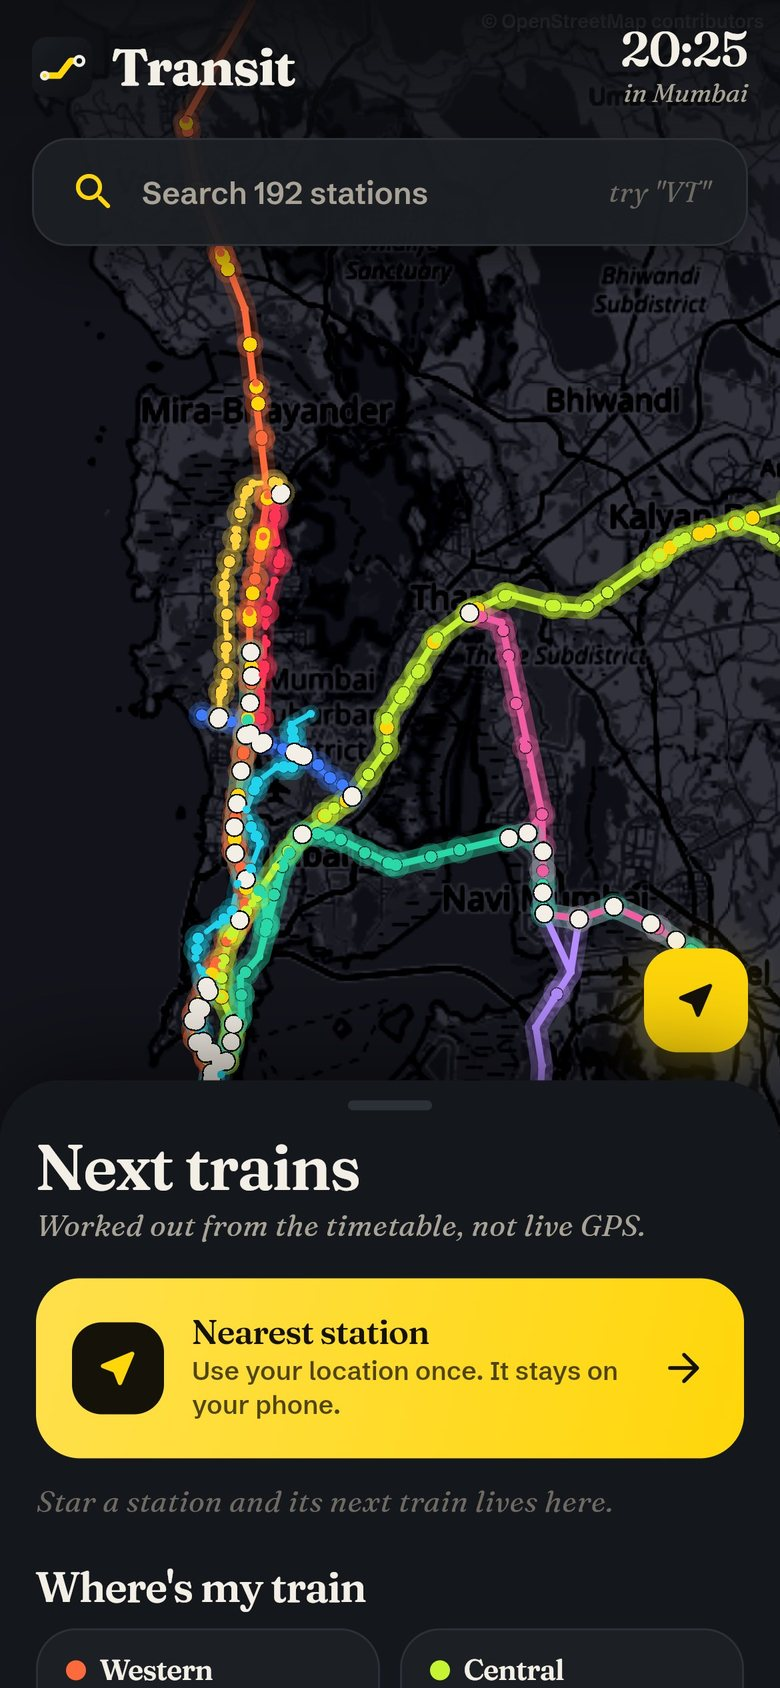
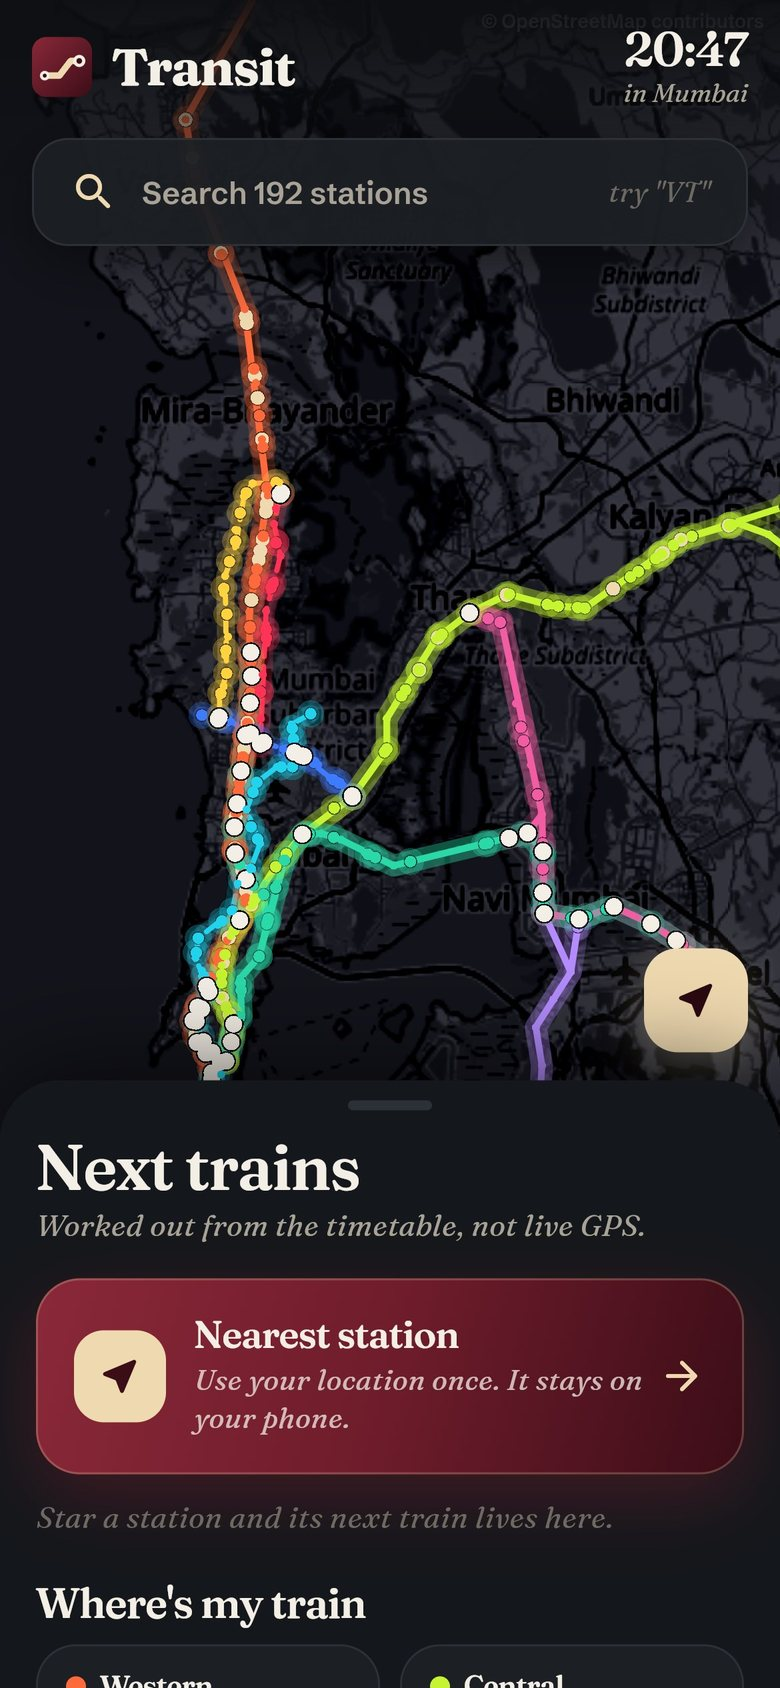
readme: maroon and cream, new splash, fresh screenshots

diff --git a/README.md b/README.md
@@ -13,15 +13,15 @@
 ![License](https://img.shields.io/badge/license-MIT-green)
 
 <p align="center">
-  <img src="docs/screenshots/splash.jpg" width="200" alt="Splash: a yellow line draws itself, a signal runs down it and the wordmark rises">
+  <img src="docs/screenshots/splash.jpg" width="200" alt="Splash: on local-train maroon the network draws itself as a line diagram, trains run down each line, and the wordmark rises">
+  <img src="docs/screenshots/doors.jpg" width="200" alt="The splash slides open from the centre like a local's doors, onto the map">
   <img src="docs/screenshots/home.jpg" width="200" alt="Home: the night map of Mumbai with every line glowing and trains moving, and a sheet with next trains">
-  <img src="docs/screenshots/station.jpg" width="200" alt="Station: Dadar's board with a big countdown, an approach ring, platforms and fast and AC tags">
-  <img src="docs/screenshots/line.jpg" width="200" alt="Where's my train: the Western line as a diagram, with trains running both ways between stations">
+  <img src="docs/screenshots/station.jpg" width="200" alt="Station: Andheri's board with a big countdown, an approach ring, platforms and fast and slow tags">
 </p>
 <p align="center">
-  <img src="docs/screenshots/search.jpg" width="200" alt="Search: station names, codes and aliases like VT">
+  <img src="docs/screenshots/line.jpg" width="200" alt="Where's my train: the Western line as a diagram, with trains running both ways between stations">
   <img src="docs/screenshots/train.jpg" width="200" alt="Train: every stop and time on the run, with the train's place on it now">
-  <img src="docs/screenshots/nearest.jpg" width="200" alt="Nearest station from your location, with a walking time and its next train">
+  <img src="docs/screenshots/nearest.jpg" width="200" alt="Nearest station from your location: the map flies to Andheri and opens its board">
   <img src="docs/screenshots/time.jpg" width="200" alt="Time controls: jump to the morning rush or run the schedule at 60 times speed">
 </p>
 
@@ -33,13 +33,13 @@ Motion was designed before the screens, with one set of tokens (`lib/brand/token
 
 | Moment | What happens |
 |---|---|
-| **Load** | On a faint grid of diagonal tracks, the yellow line of the mark draws itself and bends at 45°, the end station pops in, and a white signal runs down the line like a train on a diagram. The wordmark rises letter by letter. Then the end station opens into a circle that reveals the map. The web loading screen and the Android launch screen use the same ink colour, so nothing flashes. Tap to skip. |
+| **Load** | On local-train maroon, the network draws itself as a line diagram, each line in its own colour with a stagger, and a cream train runs down every line. The mark draws in the middle, the wordmark rises letter by letter, and the lines step back so it reads. Then the screen slides open from the centre like a local's doors, a cream edge on each, onto the map. The web loading screen, the Android launch screen and the app icon share the maroon, so nothing flashes. Tap to skip to the doors. |
 | **The map wakes up** | As the splash opens, the camera flies in from the whole region to the city, every line draws itself out from its terminus, the stations appear and the trains start to move. The sheet and top bar rise into place. |
-| **Fly to a station** | Pick a station on the map or in search and the camera flies like a plane, rising for long hops and settling just above the sheet, where a yellow pulse marks it. The sheet cross-fades from the overview to the station's board. |
-| **Countdown** | The next train's minutes and seconds roll like a platform indicator, an approach ring closes as it gets nearer, and the card turns yellow inside two minutes. "Now" pulses when the train is due. |
-| **Trains on the map** | Every running train is a solid dot in its line's colour (fast trains in yellow), redrawn about 15 times a second, easing out of a station, cruising, and braking into the next. |
-| **Where's my train** | The line tile grows into a full-bleed header in the line's colour. Both tracks draw down the screen, station names stagger in (interchanges as white bars across both tracks), and the trains glide along: down trains on one track, up trains on the other, fast trains in yellow, AC rakes with a blue outline, ladies specials with a pink light. Tap one to open its run. "Watch it on the line" from a train scrolls to it and rings it. |
-| **Time travel** | Tap the clock in the corner to jump to the morning or evening rush, or run the schedule at 10× or 60×, so you can watch the 9 am crush on the Western line at any hour. The italic line under the clock turns yellow and says what you are looking at. |
+| **Fly to a station** | Pick a station on the map or in search and the camera flies like a plane, rising for long hops and settling just above the sheet, where a cream pulse marks it. The sheet cross-fades from the overview to the station's board. |
+| **Countdown** | The next train's minutes and seconds roll like a platform indicator, an approach ring closes as it gets nearer, and the card's edge lights up in cream inside two minutes. "Now" pulses when the train is due. |
+| **Trains on the map** | Every running train is a solid dot in its line's colour (fast trains in cream), redrawn about 15 times a second, easing out of a station, cruising, and braking into the next. |
+| **Where's my train** | The line tile grows into a full-bleed header in the line's colour. Both tracks draw down the screen, station names stagger in (interchanges as white bars across both tracks), and the trains glide along: down trains on one track, up trains on the other, fast trains in cream, AC rakes with a blue outline, ladies specials with a pink light. Tap one to open its run. "Watch it on the line" from a train scrolls to it and rings it. |
+| **Time travel** | Tap the clock in the corner to jump to the morning or evening rush, or run the schedule at 10× or 60×, so you can watch the 9 am crush on the Western line at any hour. The italic line under the clock turns cream and says what you are looking at. |
 
 ## Features
 
@@ -47,7 +47,7 @@ Motion was designed before the screens, with one set of tokens (`lib/brand/token
 - **Timetables bundled**: 3,312 suburban trains with every stop, time and most platforms, about 580 KB of JSON. Nothing is fetched except map tiles, so the boards work in a tunnel.
 - **Next trains**: a departure board for any station with live countdowns, filters by line and fast only, platform numbers, and trains that end at the station left out (you cannot board them). Late at night it looks across midnight, both ways.
 - **Fast, slow, AC, ladies**: from the timetable. AC and ladies rakes that run as ordinary trains at the weekend are shown as ordinary on those days.
-- **Station search**: by name, by part of a word, by code (`ADH`) or by alias (`VT`, `Bombay Central`). Every word must match, and the matching part lights up.
+- **Station search**: by name, by part of a word, by code (`ADH`) or by alias (`VT`, `Bombay Central`). Every word must match, and the matching part lights up in cream.
 - **Favourites**: star a station and its next train lives on the home sheet. Saved on the device.
 - **Nearest station**: one location fix, on request. The app finds the closest stations with a walking time and flies to the nearest. The position is never stored or sent anywhere.
 - **Interchanges**: metro stations within a short walk of a suburban station (Andheri, Ghatkopar, Churchgate, CSMT, Marol Naka, ...) link to each other.
@@ -77,7 +77,7 @@ A train's timetable gives a departure time at each stop. Between two stops the a
 
 ## Design
 
-Transit is a night app: a neutral ink field (`#0d0f12`) with cream type (`#f4efe6`) and the yellow painted along every platform edge (`#ffd60a`) as its one accent. Headlines and the big countdown figures are set in **Fraunces**, interface text in **Schibsted Grotesk**, and the quiet lines in between (notes, section intros, "in Mumbai" under the clock) in italic Fraunces rather than small grey capitals. There are no status pills: the time sits in the corner as type, with a colon that blinks with the seconds. The lines bring the rest of the colour, each in its own: Western orange, Central lime, Harbour mint, Trans-Harbour pink, Uran lilac, and the metro lines in their official blue, yellow, aqua and red. The mark is a fragment of a line map: a yellow line leaves a station, bends at 45° and arrives at a ring.
+Transit borrows the old Mumbai local's livery: a deep maroon (`#6e1c2b`, deepening to `#3b0d17`) as the brand field for the splash, icon and hero cards, and the cream band (`#efd9b0`) as the one accent, over a neutral graphite night (`#0d0f12`) for the map. Headlines and the big countdown figures are set in **Fraunces**, interface text in **Schibsted Grotesk**, and the quiet lines in between (notes, section intros, "in Mumbai" under the clock) in italic Fraunces rather than small grey capitals. There are no status pills: the time sits in the corner as type, with a colon that blinks with the seconds. The lines bring the rest of the colour, each in its own: Western orange, Central lime, Harbour mint, Trans-Harbour pink, Uran lilac, and the metro lines in their official blue, yellow, aqua and red. The mark is a fragment of a line map: a cream line leaves a station, bends at 45° and arrives at a ring, on a maroon tile.
 
 ## Architecture
 
